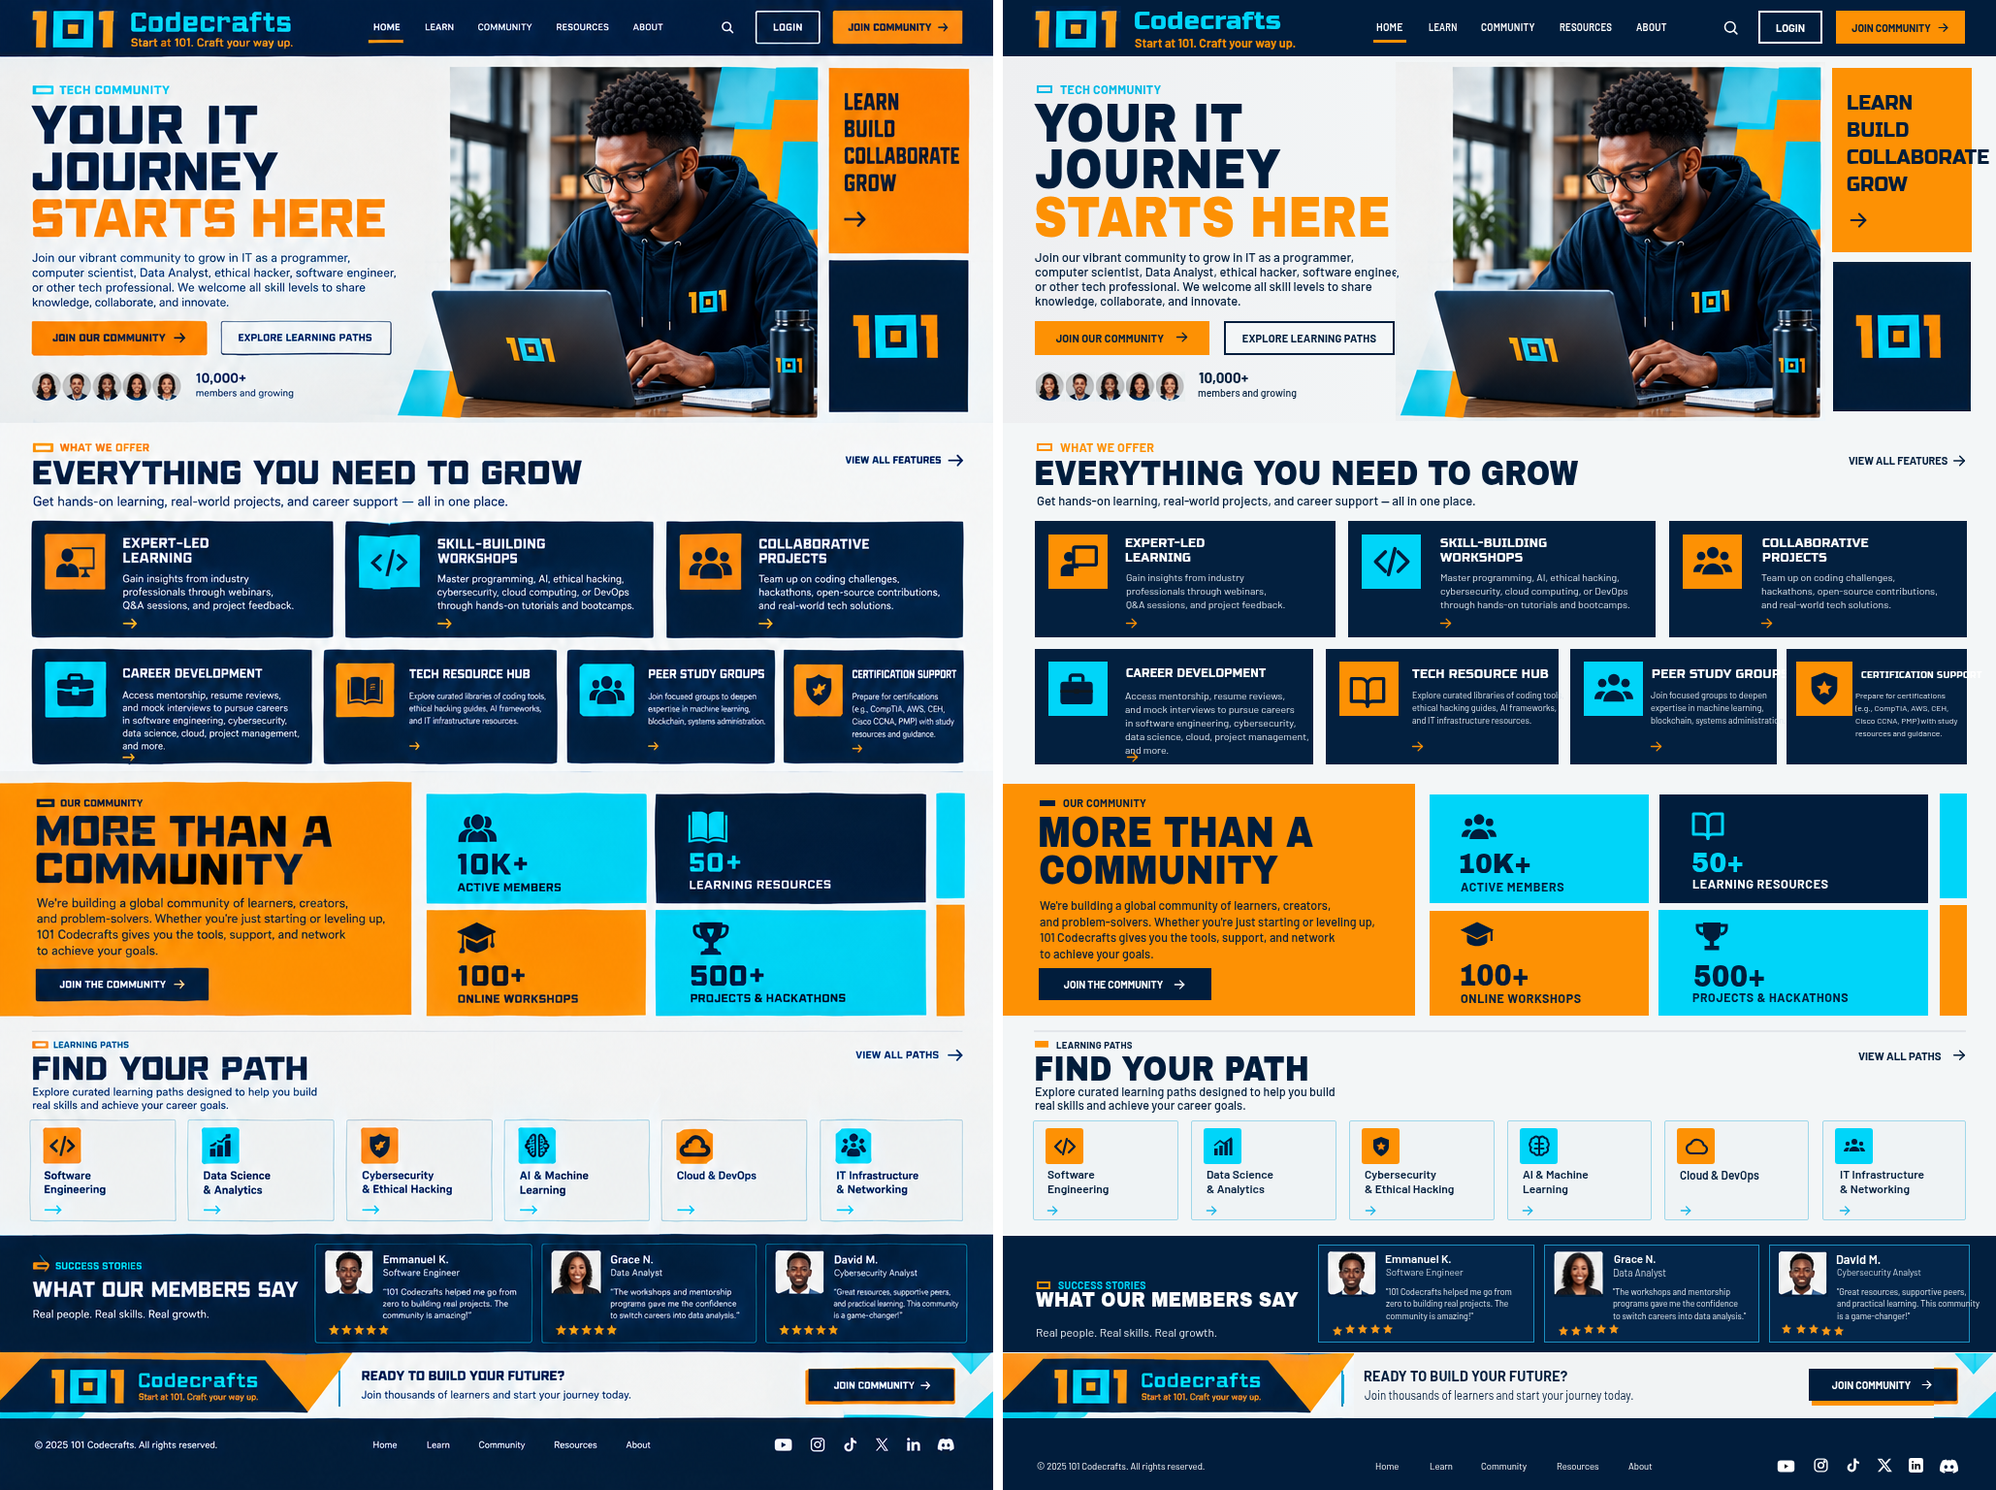
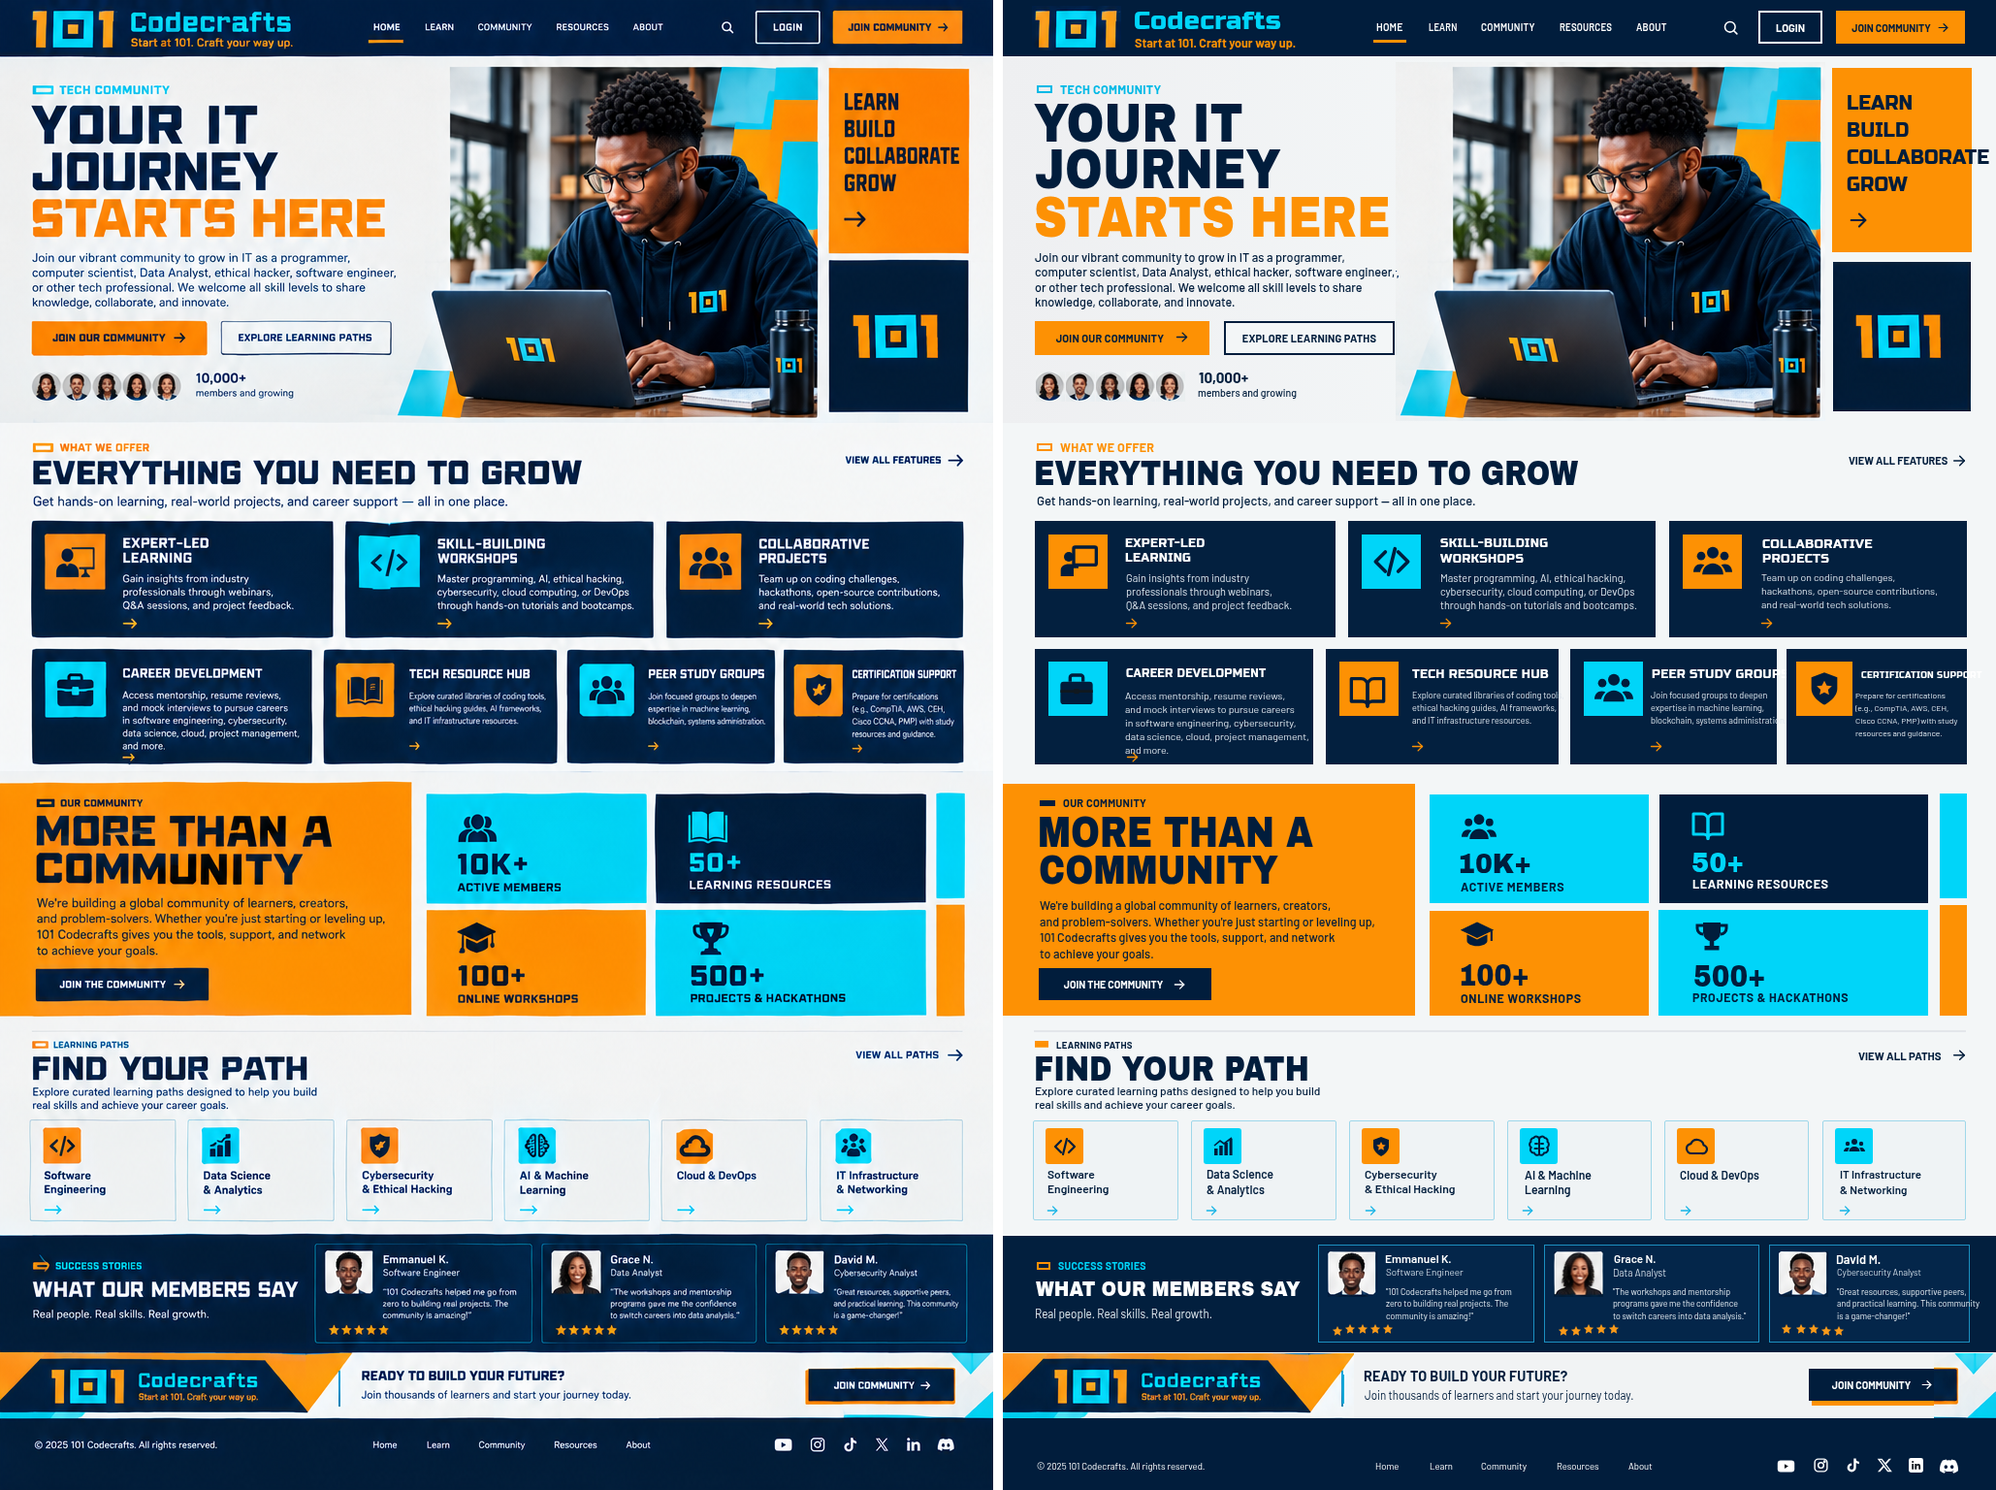
Landing round 4 (SSIM 0.7730)

diff --git a/css/landing.fit.css b/css/landing.fit.css
@@ -5,25 +5,25 @@
 .page > :nth-child(1) > :nth-child(4) > :nth-child(5){translate:1.00px 0.00px;font-size:9.86px !important;scale:1 1.0645;transform-origin:0 0}
 .page > :nth-child(4){translate:-1.00px 0.00px;font-size:46.81px !important;scale:1 0.9955;transform-origin:0 0}
 .page > :nth-child(6){translate:-1.00px 0.00px;font-size:47.38px !important;scale:1 1.0228;transform-origin:0 0}
-.page > :nth-child(7){translate:-1.00px 1.00px;font-size:13.00px !important;scale:1 1.0000;transform-origin:0 0}
+.page > :nth-child(7){translate:-1.00px 1.00px;font-size:12.63px !important;scale:1 1.0148;transform-origin:0 0}
 .page > :nth-child(8) > :nth-child(1){translate:1.00px -1.00px;font-size:11.00px !important;scale:1 1.0000;transform-origin:0 0}
 .page > :nth-child(15){translate:0.00px -1.00px;font-size:15.19px !important;scale:1 1.0300;transform-origin:0 0}
 .page > :nth-child(16){translate:-2.00px 0.00px;font-size:10.58px !important;scale:1 1.0396;transform-origin:0 0}
 .page > :nth-child(21){translate:-2.00px -1.00px;font-size:29.47px !important;scale:1 1.0659;transform-origin:0 0}
 .page > :nth-child(22) > :nth-child(1){translate:-6.00px 1.00px;font-size:11.00px !important;scale:1 1.0000;transform-origin:0 0}
-.page > :nth-child(24) > :nth-child(3){translate:1.00px -2.00px;font-size:10.50px !important;scale:1 1.0000;transform-origin:0 0}
+.page > :nth-child(24) > :nth-child(3){translate:1.00px -1.00px;font-size:10.95px !important;scale:1 1.0116;transform-origin:0 0}
 .page > :nth-child(24) > :nth-child(4){translate:-1.00px 0.00px;font-size:16.00px !important;scale:1 1.0000;transform-origin:0 0}
-.page > :nth-child(25) > :nth-child(2){translate:1.00px 0.00px;font-size:12.50px !important;scale:1 1.0000;transform-origin:0 0}
-.page > :nth-child(25) > :nth-child(3){translate:1.00px -2.00px;font-size:10.50px !important;scale:1 1.0000;transform-origin:0 0}
+.page > :nth-child(25) > :nth-child(2){translate:1.00px 0.00px;font-size:12.61px !important;scale:1 1.0736;transform-origin:0 0}
+.page > :nth-child(25) > :nth-child(3){translate:1.00px -1.00px;font-size:10.88px !important;scale:1 0.9914;transform-origin:0 0}
 .page > :nth-child(25) > :nth-child(4){translate:-1.00px 0.00px;font-size:16.00px !important;scale:1 1.0000;transform-origin:0 0}
-.page > :nth-child(26) > :nth-child(2){translate:2.00px 0.00px;font-size:12.50px !important;scale:1 1.0000;transform-origin:0 0}
+.page > :nth-child(26) > :nth-child(2){translate:2.00px 2.00px;font-size:12.96px !important;scale:1 1.0091;transform-origin:0 0}
 .page > :nth-child(26) > :nth-child(3){translate:1.00px -2.00px;font-size:10.50px !important;scale:1 1.0000;transform-origin:0 0}
 .page > :nth-child(26) > :nth-child(4){translate:-1.00px 0.00px;font-size:16.00px !important;scale:1 1.0000;transform-origin:0 0}
 .page > :nth-child(27) > :nth-child(1) > :nth-child(1){translate:-2.00px 1.00px;font-size:16.00px !important;scale:1 1.0000;transform-origin:0 0}
 .page > :nth-child(27) > :nth-child(2){translate:1.00px -2.00px;font-size:11.61px !important;scale:1 1.1960;transform-origin:0 0}
 .page > :nth-child(28) > :nth-child(1) > :nth-child(1){translate:-2.00px 3.00px;font-size:16.00px !important;scale:1 1.0000;transform-origin:0 0}
 .page > :nth-child(28) > :nth-child(4){translate:-2.00px 2.00px;font-size:16.00px !important;scale:1 1.0000;transform-origin:0 0}
-.page > :nth-child(29) > :nth-child(3){translate:-1.00px 0.00px;font-size:9.00px !important;scale:1 1.0000;transform-origin:0 0}
+.page > :nth-child(29) > :nth-child(3){translate:-1.00px 0.00px;font-size:9.06px !important;scale:1 0.9929;transform-origin:0 0}
 .page > :nth-child(29) > :nth-child(4){translate:-3.00px 2.00px;font-size:16.00px !important;scale:1 1.0000;transform-origin:0 0}
 .page > :nth-child(30) > :nth-child(2){translate:6.00px 0.00px;font-size:9.10px !important;scale:1 1.0438;transform-origin:0 0}
 .page > :nth-child(31) > :nth-child(1){translate:1.00px 0.00px;font-size:11.00px !important;scale:1 1.0000;transform-origin:0 0}
@@ -43,21 +43,22 @@
 .page > :nth-child(36) > :nth-child(3){translate:0.00px -2.00px;font-size:12.31px !important;scale:1 1.0969;transform-origin:0 0}
 .page > :nth-child(39){translate:-2.00px -1.00px;font-size:9.61px !important;scale:1 1.0568;transform-origin:0 0}
 .page > :nth-child(40){translate:-1.00px 0.00px;font-size:30.21px !important;scale:1 0.9930;transform-origin:0 0}
-.page > :nth-child(41){translate:-1.00px -2.00px;font-size:12.50px !important;scale:1 1.0000;transform-origin:0 0}
+.page > :nth-child(41){translate:-1.00px -3.00px;font-size:11.89px !important;scale:1 1.0108;transform-origin:0 0}
 .page > :nth-child(42){translate:0.00px 0.00px;font-size:11.41px !important;scale:1 0.9640;transform-origin:0 0}
 .page > :nth-child(43) > :nth-child(2){translate:2.00px -2.00px;font-size:12.00px !important;scale:1 1.0000;transform-origin:0 0}
 .page > :nth-child(43) > :nth-child(3){translate:-2.00px 2.00px;font-size:16.00px !important;scale:1 1.0000;transform-origin:0 0}
-.page > :nth-child(44) > :nth-child(2){translate:3.00px -2.00px;font-size:12.00px !important;scale:1 1.0000;transform-origin:0 0}
+.page > :nth-child(44) > :nth-child(2){translate:3.00px -2.00px;font-size:12.00px !important;scale:1 1.0400;transform-origin:0 0}
 .page > :nth-child(44) > :nth-child(3){translate:-1.00px 2.00px;font-size:16.00px !important;scale:1 1.0000;transform-origin:0 0}
-.page > :nth-child(45) > :nth-child(2){translate:3.00px -2.00px;font-size:12.00px !important;scale:1 1.0000;transform-origin:0 0}
+.page > :nth-child(45) > :nth-child(2){translate:3.00px -2.00px;font-size:12.13px !important;scale:1 0.9892;transform-origin:0 0}
 .page > :nth-child(45) > :nth-child(3){translate:0.00px 2.00px;font-size:16.00px !important;scale:1 1.0000;transform-origin:0 0}
-.page > :nth-child(46) > :nth-child(2){translate:3.00px -2.00px;font-size:12.00px !important;scale:1 1.0000;transform-origin:0 0}
+.page > :nth-child(46) > :nth-child(2){translate:5.00px -2.00px;font-size:12.20px !important;scale:1 1.0539;transform-origin:0 0}
 .page > :nth-child(46) > :nth-child(3){translate:-1.00px 2.00px;font-size:16.00px !important;scale:1 1.0000;transform-origin:0 0}
 .page > :nth-child(47) > :nth-child(2){translate:3.00px -2.00px;font-size:11.86px !important;scale:1 1.1134;transform-origin:0 0}
 .page > :nth-child(47) > :nth-child(3){translate:0.00px 2.00px;font-size:16.00px !important;scale:1 1.0000;transform-origin:0 0}
-.page > :nth-child(48) > :nth-child(2){translate:5.00px -2.00px;font-size:12.00px !important;scale:1 1.0000;transform-origin:0 0}
+.page > :nth-child(48) > :nth-child(2){translate:5.00px -2.00px;font-size:11.59px !important;scale:1 1.0357;transform-origin:0 0}
 .page > :nth-child(48) > :nth-child(3){translate:1.00px 2.00px;font-size:16.00px !important;scale:1 1.0000;transform-origin:0 0}
-.page > :nth-child(51){translate:0.00px -6.00px;font-size:18.67px !important;scale:1 1.0000;transform-origin:0 0}
+.page > :nth-child(51){translate:0.00px -5.00px;font-size:18.81px !important;scale:1 1.0039;transform-origin:0 0}
+.page > :nth-child(52){translate:-1.00px 0.00px;font-size:11.74px !important;scale:1 1.1243;transform-origin:0 0}
 .page > :nth-child(53) > :nth-child(2){translate:-1.00px -3.00px;font-size:11.98px !important;scale:1 1.0149;transform-origin:0 0}
 .page > :nth-child(53) > :nth-child(3){translate:0.00px -3.00px;font-size:9.88px !important;scale:1 1.0060;transform-origin:0 0}
 .page > :nth-child(53) > :nth-child(5) > :nth-child(2){translate:0.00px -2.00px;font-size:16.00px !important;scale:1 1.0000;transform-origin:0 0}

diff --git a/index.html b/index.html
@@ -95,7 +95,7 @@
 <h1 class="disp split" style="left:33px;top:100px;font-size:46.6px;transform:scaleY(1.208);color:var(--nv)">YOUR IT</h1>
 <div class="disp split" style="left:33px;top:148px;font-size:46.6px;transform:scaleY(1.208);color:var(--nv)">JOURNEY</div>
 <div class="disp split" style="left:33px;top:196px;font-size:46.6px;transform:scaleY(1.208);color:var(--lor)">STARTS HERE</div>
-<p style="left:34px;top:257px;width:385px;font-size:13px;line-height:15px;font-weight:500;color:var(--nv)">Join our vibrant community to grow in IT as a programmer,<br>computer scientist, Data Analyst, ethical hacker, software engineer,<br>or other tech professional. We welcome all skill levels to share<br>knowledge, collaborate, and innovate.</p>
+<p style="left:34px;top:257px;width:385px;font-size:12.6px;line-height:15px;font-weight:500;color:var(--nv)">Join our vibrant community to grow in IT as a programmer,<br>computer scientist, Data Analyst, ethical hacker, software engineer,<br>or other tech professional. We welcome all skill levels to share<br>knowledge, collaborate, and innovate.</p>
 <a class="btn-or hov" href="dashboard.html" style="left:33px;top:331px;width:180px;height:35px">JOIN OUR COMMUNITY <svg class="i" style="width:15px;height:15px"><use href="#i-arrow"/></svg></a>
 <a class="btn-ol hov" href="#paths" style="left:228px;top:331px;width:176px;height:35px">EXPLORE LEARNING PATHS</a>
 <img src="assets/img/avatar-row-1.png" alt="" style="left:34px;top:383px;width:30px;height:31px">
@@ -162,9 +162,9 @@ GROW</div>
 
 <!-- ============ TESTIMONIALS ============ -->
 <section class="band"></section>
-<div class="eyebrow" style="left:35px;top:1318px;color:var(--lcy);font-size:10.5px"><i style="border-color:var(--lor);width:14px;height:8px"></i>SUCCESS STORIES</div>
-<h2 class="disp split" style="left:34px;top:1336px;font-size:19.5px;transform:scaleY(1.15);color:#fff">WHAT OUR MEMBERS SAY</h2>
-<p style="left:34px;top:1366px;font-size:12px;color:#e7edf3">Real people. Real skills. Real growth.</p>
+<div class="eyebrow" style="left:35px;top:1298px;color:var(--lcy);font-size:10.5px"><i style="border-color:var(--lor);width:14px;height:8px"></i>SUCCESS STORIES</div>
+<h2 class="disp split" style="left:34px;top:1324px;font-size:19.5px;transform:scaleY(1.15);color:#fff">WHAT OUR MEMBERS SAY</h2>
+<p style="left:34px;top:1346px;font-size:12px;color:#e7edf3">Real people. Real skills. Real growth.</p>
 <article class="tcard" style="left:325px;width:223px"><img src="assets/img/t-emmanuel.png" alt=""><b>Emmanuel K.</b><small>Software Engineer</small><p>"101 Codecrafts helped me go from<br>zero to building real projects. The<br>community is amazing!"</p><span class="stars"><svg><use href="#i-star"/></svg><svg><use href="#i-star"/></svg><svg><use href="#i-star"/></svg><svg><use href="#i-star"/></svg><svg><use href="#i-star"/></svg></span></article>
 <article class="tcard" style="left:558px;width:222px"><img src="assets/img/t-grace.png" alt=""><b>Grace N.</b><small>Data Analyst</small><p>"The workshops and mentorship<br>programs gave me the confidence<br>to switch careers into data analysis."</p><span class="stars"><svg><use href="#i-star"/></svg><svg><use href="#i-star"/></svg><svg><use href="#i-star"/></svg><svg><use href="#i-star"/></svg><svg><use href="#i-star"/></svg></span></article>
 <article class="tcard" style="left:790px;width:207px"><img src="assets/img/t-david.png" alt=""><b>David M.</b><small>Cybersecurity Analyst</small><p style="width:135px">"Great resources, supportive peers,<br>and practical learning. This community<br>is a game-changer!"</p><span class="stars"><svg><use href="#i-star"/></svg><svg><use href="#i-star"/></svg><svg><use href="#i-star"/></svg><svg><use href="#i-star"/></svg><svg><use href="#i-star"/></svg></span></article>

diff --git a/src/index.html b/src/index.html
@@ -37,7 +37,7 @@
 <h1 class="disp split" style="left:33px;top:100px;font-size:46.6px;transform:scaleY(1.208);color:var(--nv)">YOUR IT</h1>
 <div class="disp split" style="left:33px;top:148px;font-size:46.6px;transform:scaleY(1.208);color:var(--nv)">JOURNEY</div>
 <div class="disp split" style="left:33px;top:196px;font-size:46.6px;transform:scaleY(1.208);color:var(--lor)">STARTS HERE</div>
-<p style="left:34px;top:257px;width:385px;font-size:13px;line-height:15px;font-weight:500;color:var(--nv)">Join our vibrant community to grow in IT as a programmer,<br>computer scientist, Data Analyst, ethical hacker, software engineer,<br>or other tech professional. We welcome all skill levels to share<br>knowledge, collaborate, and innovate.</p>
+<p style="left:34px;top:257px;width:385px;font-size:12.6px;line-height:15px;font-weight:500;color:var(--nv)">Join our vibrant community to grow in IT as a programmer,<br>computer scientist, Data Analyst, ethical hacker, software engineer,<br>or other tech professional. We welcome all skill levels to share<br>knowledge, collaborate, and innovate.</p>
 <a class="btn-or hov" href="dashboard.html" style="left:33px;top:331px;width:180px;height:35px">JOIN OUR COMMUNITY <svg class="i" style="width:15px;height:15px"><use href="#i-arrow"/></svg></a>
 <a class="btn-ol hov" href="#paths" style="left:228px;top:331px;width:176px;height:35px">EXPLORE LEARNING PATHS</a>
 <img src="assets/img/avatar-row-1.png" alt="" style="left:34px;top:383px;width:30px;height:31px">
@@ -104,9 +104,9 @@ GROW</div>
 
 <!-- ============ TESTIMONIALS ============ -->
 <section class="band"></section>
-<div class="eyebrow" style="left:35px;top:1318px;color:var(--lcy);font-size:10.5px"><i style="border-color:var(--lor);width:14px;height:8px"></i>SUCCESS STORIES</div>
-<h2 class="disp split" style="left:34px;top:1336px;font-size:19.5px;transform:scaleY(1.15);color:#fff">WHAT OUR MEMBERS SAY</h2>
-<p style="left:34px;top:1366px;font-size:12px;color:#e7edf3">Real people. Real skills. Real growth.</p>
+<div class="eyebrow" style="left:35px;top:1298px;color:var(--lcy);font-size:10.5px"><i style="border-color:var(--lor);width:14px;height:8px"></i>SUCCESS STORIES</div>
+<h2 class="disp split" style="left:34px;top:1324px;font-size:19.5px;transform:scaleY(1.15);color:#fff">WHAT OUR MEMBERS SAY</h2>
+<p style="left:34px;top:1346px;font-size:12px;color:#e7edf3">Real people. Real skills. Real growth.</p>
 <article class="tcard" style="left:325px;width:223px"><img src="assets/img/t-emmanuel.png" alt=""><b>Emmanuel K.</b><small>Software Engineer</small><p>"101 Codecrafts helped me go from<br>zero to building real projects. The<br>community is amazing!"</p><span class="stars"><svg><use href="#i-star"/></svg><svg><use href="#i-star"/></svg><svg><use href="#i-star"/></svg><svg><use href="#i-star"/></svg><svg><use href="#i-star"/></svg></span></article>
 <article class="tcard" style="left:558px;width:222px"><img src="assets/img/t-grace.png" alt=""><b>Grace N.</b><small>Data Analyst</small><p>"The workshops and mentorship<br>programs gave me the confidence<br>to switch careers into data analysis."</p><span class="stars"><svg><use href="#i-star"/></svg><svg><use href="#i-star"/></svg><svg><use href="#i-star"/></svg><svg><use href="#i-star"/></svg><svg><use href="#i-star"/></svg></span></article>
 <article class="tcard" style="left:790px;width:207px"><img src="assets/img/t-david.png" alt=""><b>David M.</b><small>Cybersecurity Analyst</small><p style="width:135px">"Great resources, supportive peers,<br>and practical learning. This community<br>is a game-changer!"</p><span class="stars"><svg><use href="#i-star"/></svg><svg><use href="#i-star"/></svg><svg><use href="#i-star"/></svg><svg><use href="#i-star"/></svg><svg><use href="#i-star"/></svg></span></article>

diff --git a/tools/tune.py b/tools/tune.py
@@ -30,7 +30,7 @@ JS_COLLECT = r"""
     if (r.width<4 || r.height<4) return;
     const cs = getComputedStyle(el);
     const lh = parseFloat(cs.lineHeight) || parseFloat(cs.fontSize)*1.25;
-    out.push({sel:path(el), x:r.left, y:r.top, w:r.width, h:r.height, fs:parseFloat(cs.fontSize), single: !isIcon && r.height < lh*1.6, icon:isIcon});
+    out.push({sel:path(el), x:r.left, y:r.top, w:r.width, h:r.height, fs:parseFloat(cs.fontSize), single: !isIcon && (r.height < lh*1.6 || cs.whiteSpace==='nowrap' || el.querySelector('br')!==null), icon:isIcon});
   });
   return out;
 }"""

diff --git a/compare/scores.md b/compare/scores.md
@@ -12,3 +12,4 @@ Screenshots taken with headless Chromium at the mockup viewport, `?static=1` (an
 | dashboard | 8 | 0.8399 | activity 0.756, latest 0.772, featured 0.789 | automatic per-element text fit (tools/tune.py, 5 passes) |
 | landing | 3 | 0.7638 | testimonials 0.586, features 0.658, hero_text 0.678 | mockup line breaks forced, icon sizes, tuner now also aligns icons |
 | dashboard | 9 | 0.8425 | activity 0.763, latest 0.773, featured 0.791 | mockup line breaks forced, tuner re-run with icons |
+| landing | 4 | 0.7730 | features 0.669, hero_text 0.687, testimonials 0.659 | testimonial heading block re-positioned, tuner may scale multi-line text |
